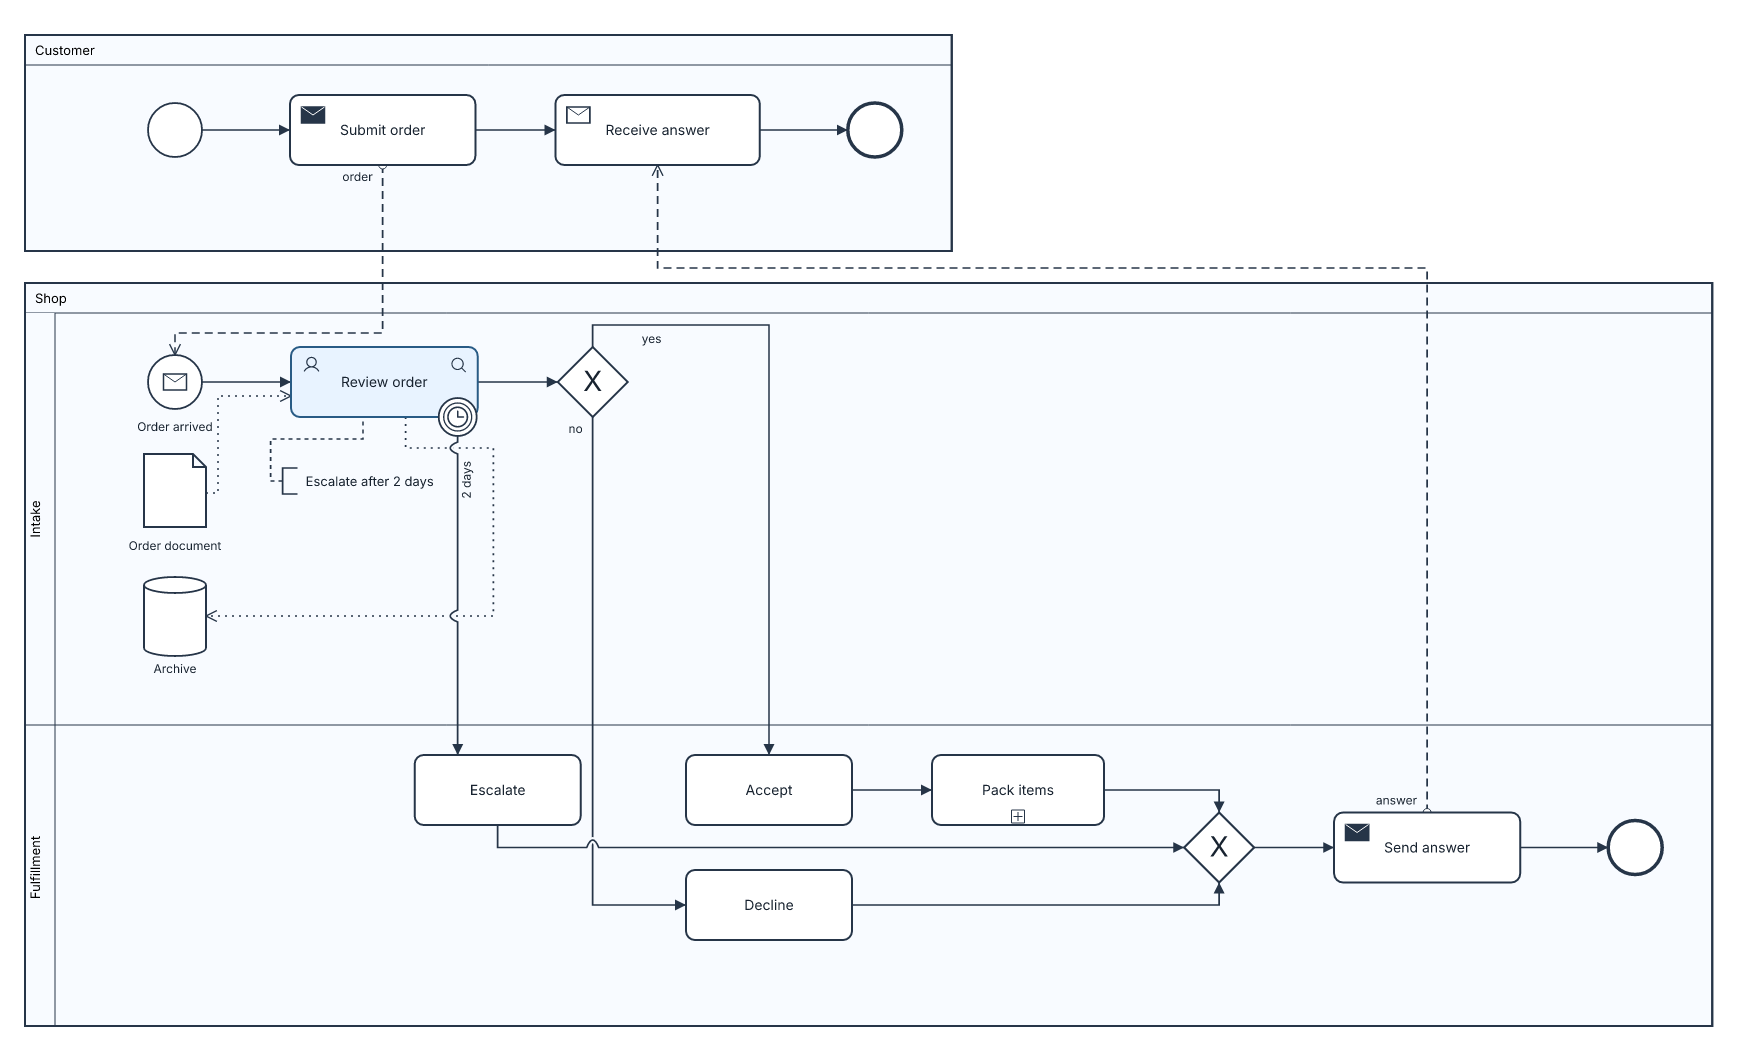
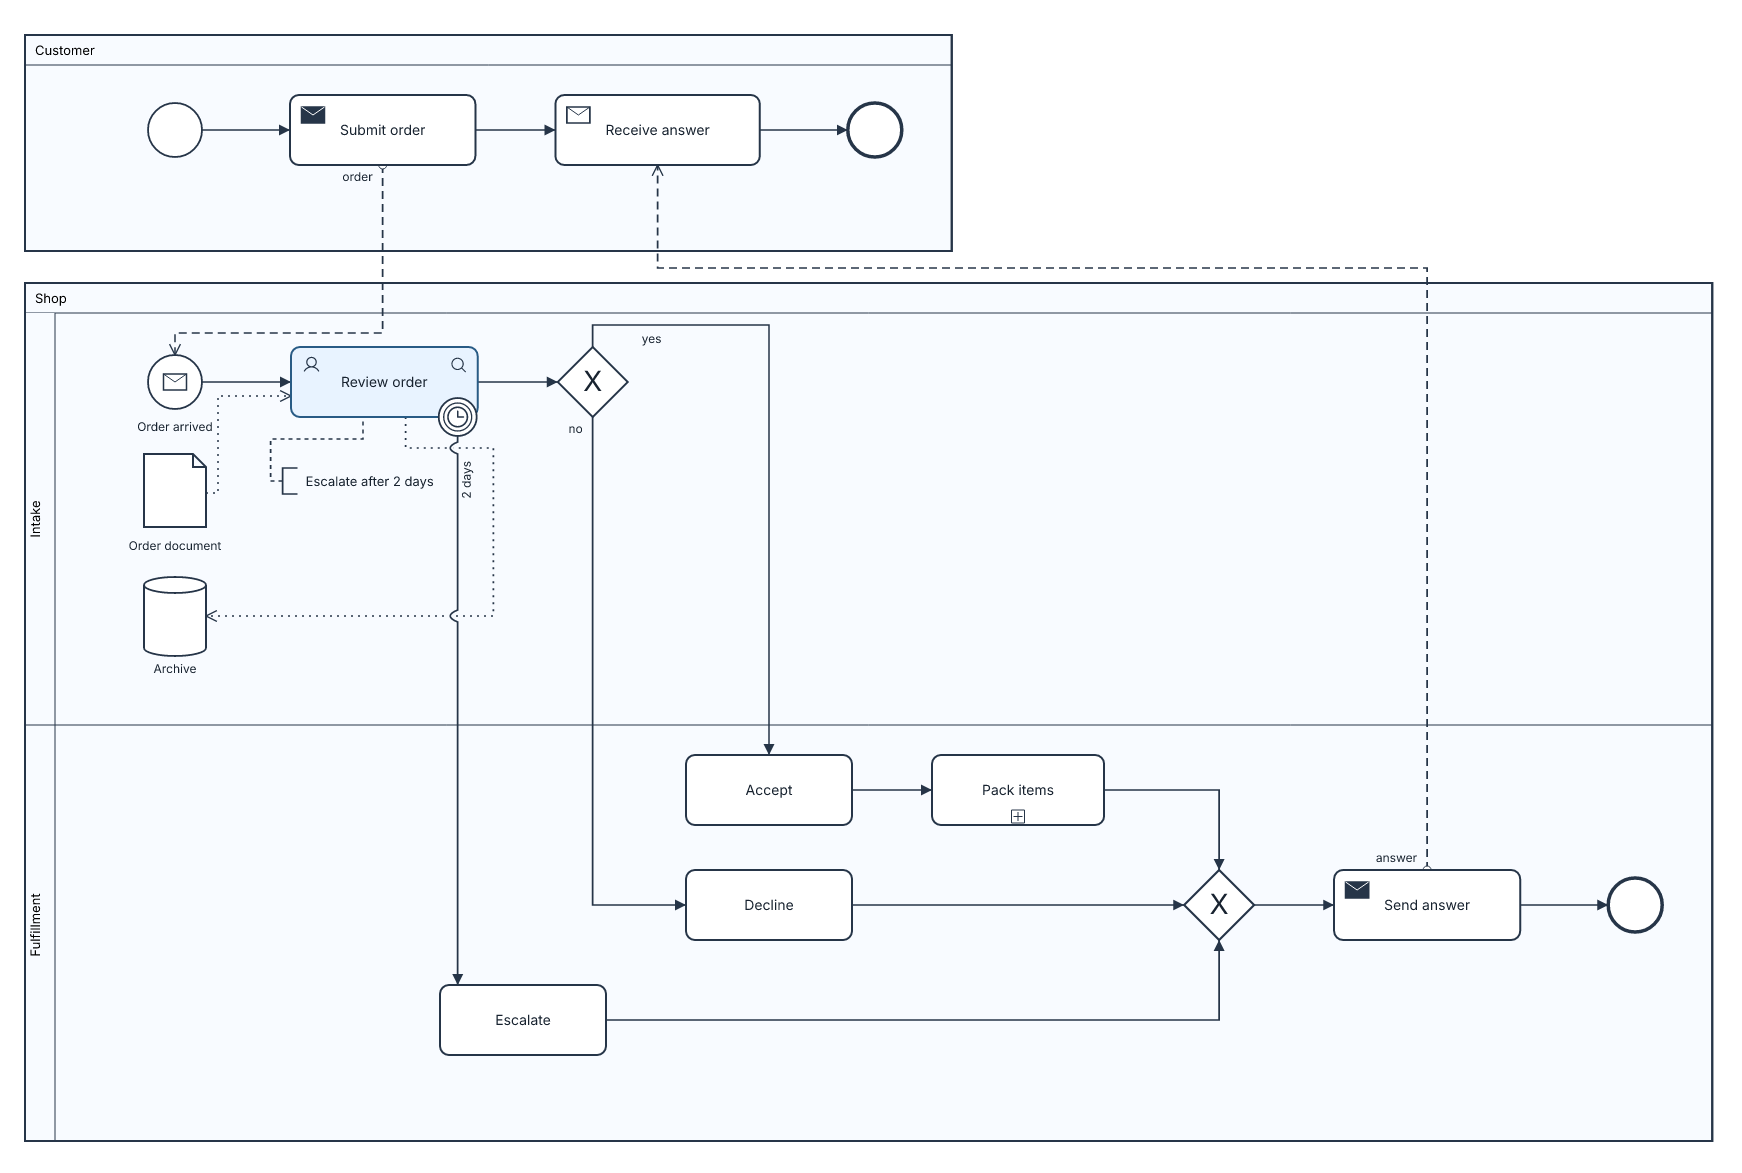
Uncross BPMN split and merge branches by automatic lane ordering

diff --git a/src/bpmn/geometry/branch.rs b/src/bpmn/geometry/branch.rs
@@ -63,6 +63,97 @@ pub(super) fn spine_center(
     }
     best.map(|(_, center)| center)
 }
+/// Avoid a split-to-branch route cutting across another branch's path into
+/// the same join. Reorder only free automatic rows within one semantic lane;
+/// authored layout and docking rules keep precedence.
+pub(super) fn uncross_merges(doc: &Document, indices: &[usize], boxes: &mut [BoxAt]) {
+    for &join in indices {
+        if !gateway(doc.nodes[join].kind) {
+            continue;
+        }
+        let incoming: Vec<_> = doc
+            .edges
+            .iter()
+            .filter(|e| e.kind == EdgeKind::Sequence && e.to == doc.nodes[join].id)
+            .filter_map(|e| doc.nodes.iter().position(|n| n.id == e.from))
+            .filter(|i| indices.contains(i))
+            .collect();
+        if incoming.len() < 3 {
+            continue;
+        }
+        for &branch in &incoming {
+            let Some(split) = doc
+                .edges
+                .iter()
+                .filter(|e| e.kind == EdgeKind::Sequence && e.to == doc.nodes[branch].id)
+                .filter_map(|e| doc.nodes.iter().position(|n| n.id == e.from))
+                .find(|&i| {
+                    gateway(doc.nodes[i].kind)
+                        && !indices.contains(&i)
+                        && doc
+                            .edges
+                            .iter()
+                            .filter(|edge| {
+                                edge.kind == EdgeKind::Sequence && edge.from == doc.nodes[i].id
+                            })
+                            .count()
+                            >= 2
+                })
+            else {
+                continue;
+            };
+            let axis = boxes[split].x;
+            if axis < 1.0 || boxes[split].y >= boxes[branch].y || axis >= boxes[join].x {
+                continue;
+            }
+            for &other in &incoming {
+                if other == branch
+                    || boxes[other].x >= axis
+                    || boxes[other].y >= boxes[branch].y - 1.0
+                    || doc.edges.iter().any(|e| {
+                        e.kind == EdgeKind::Sequence
+                            && e.from == doc.nodes[split].id
+                            && e.to == doc.nodes[other].id
+                    })
+                {
+                    continue;
+                }
+                let touches = |id: &str| {
+                    doc.layout.iter().any(|(a, _, b)| {
+                        id == a
+                            || id.ends_with(&format!(".{a}"))
+                            || id == b
+                            || id.ends_with(&format!(".{b}"))
+                    })
+                };
+                if touches(&doc.nodes[other].id)
+                    || touches(&doc.nodes[branch].id)
+                    || doc.flow_layout.iter().any(|r| {
+                        r.to == doc.nodes[join].id
+                            && (r.from == doc.nodes[other].id || r.from == doc.nodes[branch].id)
+                            && r.to_side.is_some()
+                    })
+                {
+                    continue;
+                }
+                let new_y = boxes[branch].y + (boxes[branch].h + boxes[other].h) / 2.0 + 45.0;
+                let moved = BoxAt {
+                    y: new_y,
+                    ..boxes[other]
+                };
+                if indices.iter().any(|&j| {
+                    j != other
+                        && (boxes[j].x - moved.x).abs() < (boxes[j].w + moved.w) / 2.0 + 8.0
+                        && (boxes[j].y - moved.y).abs() < (boxes[j].h + moved.h) / 2.0 + 8.0
+                }) {
+                    continue;
+                }
+                boxes[other] = moved;
+                break;
+            }
+        }
+    }
+}
 /// Align a join and its downstream spine without moving its incoming branches.
 /// In particular, a cross-rank join need not inherit the first branch's row.
 pub(super) fn center_merges(

diff --git a/src/bpmn/render/routing_tests.rs b/src/bpmn/render/routing_tests.rs
@@ -129,9 +129,14 @@ fn all_order_edges_have_unique_node_anchors_and_clear_paths() {
     assert_eq!(
         escalation.len(),
         3,
-        "choose the task's bottom port instead of a short right-hand dogleg"
+        "the lower merge branch needs just one bend"
     );
-    assert!((escalation[0].0 - escalation[1].0).abs() < 0.01);
+    assert!((escalation[0].1 - escalation[1].1).abs() < 0.01);
+    assert!(
+        super::orthogonal::bridges(escalation, &previous[..edge("Shop.Escalate", "Shop.Merge")])
+            .is_empty(),
+        "the lower branch should not cross the split-to-Decline flow"
+    );
     let archive = &previous[edge("Shop.Review", "Shop.Archive")].points;
     let store = geom.nodes[doc
         .nodes
@@ -144,12 +149,35 @@ fn all_order_edges_have_unique_node_anchors_and_clear_paths() {
         "enter the store from its free right side instead of adding a tiny terminal kink"
     );
     let node = |id: &str| geom.nodes[doc.nodes.iter().position(|n| n.id == id).unwrap()];
+    assert!(
+        node("Shop.Decline").y < node("Shop.Escalate").y,
+        "the split target should precede the other merge branch vertically"
+    );
     assert_eq!(
         node("Shop.Merge").y,
-        (node("Shop.Pack").y + node("Shop.Decline").y) / 2.0
+        (node("Shop.Pack").y + node("Shop.Escalate").y) / 2.0
     );
     assert!(
-        node("Shop.Escalate").x + node("Shop.Escalate").w / 2.0 + 8.0 < node("Shop.Decision").x
+        previous[edge("Shop.Decision", "Shop.Decline")]
+            .points
+            .last()
+            .unwrap()
+            .1
+            < node("Shop.Escalate").y - node("Shop.Escalate").h / 2.0
+    );
+    assert_eq!(
+        ports.ends[edge("Shop.Decline", "Shop.Merge")]
+            .1
+            .unwrap()
+            .side,
+        crate::bpmn::Side::Left
+    );
+    assert_eq!(
+        ports.ends[edge("Shop.Escalate", "Shop.Merge")]
+            .1
+            .unwrap()
+            .side,
+        crate::bpmn::Side::Bottom
     );
     let policy = doc
         .nodes
@@ -263,6 +291,50 @@ fn all_order_edges_have_unique_node_anchors_and_clear_paths() {
     assert!(
         label_y < p.y + p.h - 25.0 && label_y > p.y + 30.0 + 20.0,
         "order label must clear pool border"
+    );
+}
+
+#[test]
+fn automatic_uncrossing_depends_on_topology_not_example_names() {
+    let source = include_str!("../../../examples/bpmn-order.laml")
+        .replace("Escalate", "Followup")
+        .replace("Decline", "Reject")
+        .replace("Decision", "Split")
+        .replace("Merge", "Join");
+    let doc = bpmn::parse(&source).unwrap();
+    let geom = super::super::geometry::place(&doc).unwrap();
+    let node = |id: &str| geom.nodes[doc.nodes.iter().position(|n| n.id == id).unwrap()];
+    assert!(node("Shop.Followup").y > node("Shop.Reject").y);
+    let ports = ports::assign(&doc, &geom).unwrap();
+    let edge = |from: &str, to: &str| {
+        doc.edges
+            .iter()
+            .position(|e| e.from == from && e.to == to)
+            .unwrap()
+    };
+    assert_eq!(
+        ports.ends[edge("Shop.Reject", "Shop.Join")].1.unwrap().side,
+        crate::bpmn::Side::Left
+    );
+    assert_eq!(
+        ports.ends[edge("Shop.Followup", "Shop.Join")]
+            .1
+            .unwrap()
+            .side,
+        crate::bpmn::Side::Bottom
+    );
+    bpmn::render(&doc, TextMode::System).unwrap();
+
+    let constrained = format!(
+        "{}\nlayout {{\nEscalate above Decline\n}}",
+        include_str!("../../../examples/bpmn-order.laml")
+    );
+    let doc = bpmn::parse(&constrained).unwrap();
+    let geom = super::super::geometry::place(&doc).unwrap();
+    let node = |id: &str| geom.nodes[doc.nodes.iter().position(|n| n.id == id).unwrap()];
+    assert!(
+        node("Shop.Escalate").y < node("Shop.Decline").y,
+        "authored relative layout must outrank crossing minimization"
     );
 }
 

diff --git a/src/bpmn/geometry.rs b/src/bpmn/geometry.rs
@@ -153,6 +153,7 @@ fn place_group(
             }
         }
     }
+    branch::uncross_merges(doc, indices, boxes);
     branch::center_merges(doc, indices, ranks, boxes);
     height = indices
         .iter()

diff --git a/docs/bpmn-diagrams.md b/docs/bpmn-diagrams.md
@@ -83,7 +83,7 @@ layout {
 
 Contradictory rules fail. Layout directions (`<`, `>`, `above`, `below`) describe actual image coordinates even when the automatic flow is top-to-bottom. A manual rule cannot change pool, lane or subprocess membership. This BPMN renderer supports relative ordering; numeric gap and alignment constraints are not yet supported for BPMN.
 
-By default, a gateway with up to four sequence flows assigns **a distinct cardinal docking point to each flow**. For the basic example, the split enters from the left and exits at the top (`ja`) and bottom (`nein`); the merge enters at the top and bottom and exits to the right. Automatic placement centers the straight-through path between the two branches; where unobstructed, each branch needs only one right-angle bend between its gateway and task. More than four flows are distributed at distinct points along the diamond's perimeter rather than sharing an anchor. Tasks, events, data objects, stores and notes also receive distinct attachments for their incident lines. The router first considers free, forward-facing task/store attachment sides and then compares unobstructed orthogonal paths for each choice. It penalizes crossings and bends, requires at least 20 pixels per bent segment (12 pixels at note/data brackets), avoids coincident segments, draws bridges at unavoidable crossings, and rejects drawings for which it cannot find a clear route rather than painting through a node. Annotation associations meet the visible bracket. All flow labels are placed after routing, close to their own line and clear of nodes, other lines, borders and other labels; branch labels prefer the vicinity of their source gateway. A boundary-event caption such as `2 days` is attached to its outgoing flow rather than floating beside the event. Every pool has the same 30-pixel title header. Lane captions use a separate 30-pixel strip (30-pixel row in top-to-bottom diagrams). Bridges arc upward on horizontal lines and leftward on vertical lines, regardless of arrow direction. To override an individual gateway end, identify the flow by its endpoint IDs:
+By default, a gateway with up to four sequence flows assigns **a distinct cardinal docking point to each flow**. For the basic example, the split enters from the left and exits at the top (`ja`) and bottom (`nein`); the merge enters at the top and bottom and exits to the right. Automatic placement centers the straight-through path between the two branches; where unobstructed, each branch needs only one right-angle bend between its gateway and task. For cross-lane split/merge patterns, it may reorder unconstrained tasks within their own lane and assign join sides by that order to eliminate a crossing. Explicit layout and gateway docking rules take precedence. More than four flows are distributed at distinct points along the diamond's perimeter rather than sharing an anchor. Tasks, events, data objects, stores and notes also receive distinct attachments for their incident lines. The router first considers free, forward-facing task/store attachment sides and then compares unobstructed orthogonal paths for each choice. It penalizes crossings and bends, requires at least 20 pixels per bent segment (12 pixels at note/data brackets), avoids coincident segments, draws bridges at unavoidable crossings, and rejects drawings for which it cannot find a clear route rather than painting through a node. Annotation associations meet the visible bracket. All flow labels are placed after routing, close to their own line and clear of nodes, other lines, borders and other labels; branch labels prefer the vicinity of their source gateway. A boundary-event caption such as `2 days` is attached to its outgoing flow rather than floating beside the event. Every pool has the same 30-pixel title header. Lane captions use a separate 30-pixel strip (30-pixel row in top-to-bottom diagrams). Bridges arc upward on horizontal lines and leftward on vertical lines, regardless of arrow direction. To override an individual gateway end, identify the flow by its endpoint IDs:
 
 ```text
 layout {
